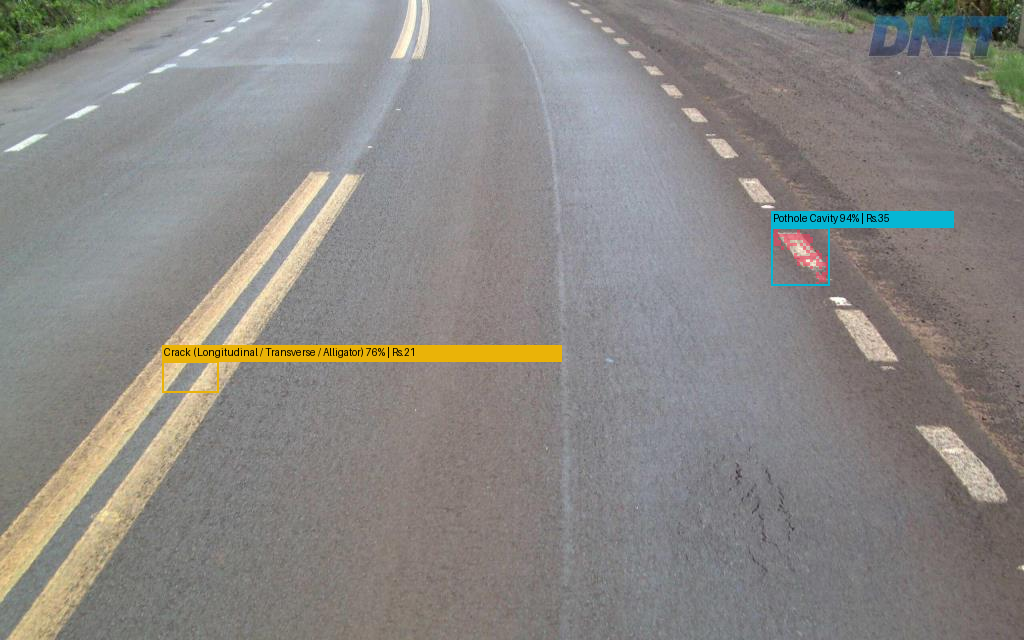
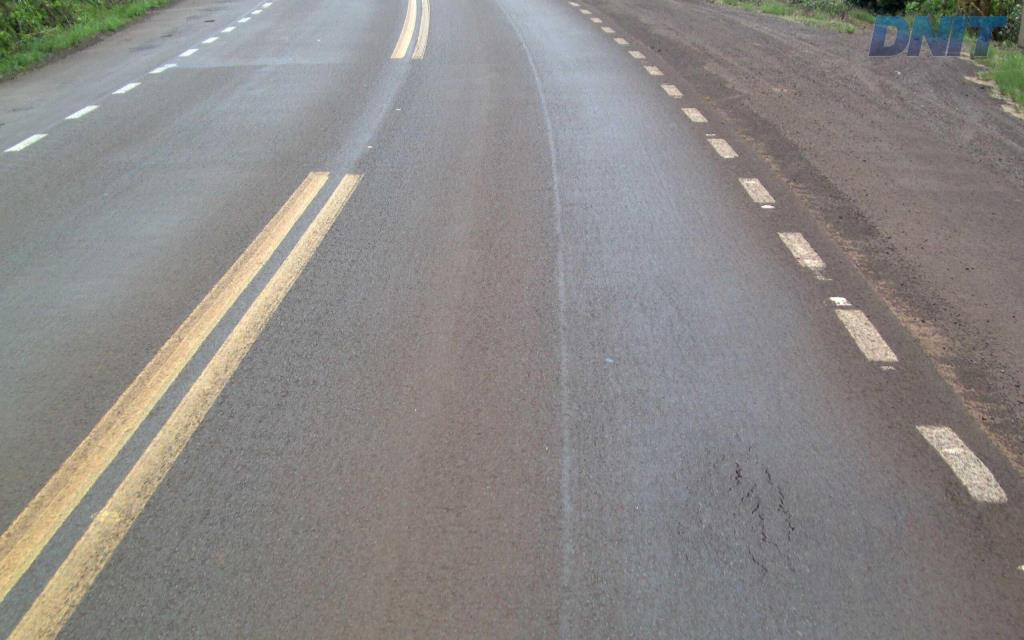
fix(accuracy): eliminate clean road false alarms with segmentation agreement gating and perspective shoulder filter

Changed region(s): [[0.75, 0.3125, 0.9375, 0.4688], [0.1562, 0.5312, 0.5625, 0.625]]

diff --git a/api/vercel_inference.py b/api/vercel_inference.py
@@ -405,6 +405,12 @@ def _finish_segmentation(flat, p0, crack_p, pothole_p, orig_h, orig_w, object_ma
             if (wy + wh * 0.5) < WORK_H * 0.35:
                 continue
 
+            # Roadway perspective envelope: road narrows toward horizon, reject off-road shoulder foliage/dirt
+            norm_y = (wy + wh * 0.5) / float(WORK_H)
+            norm_x = (wx + ww * 0.5) / float(WORK_W)
+            if norm_y < 0.45 and (norm_x < 0.18 or norm_x > 0.70):
+                continue
+
             sub_mask = c_mask[wy:wy + wh, wx:wx + ww]
             if not sub_mask.any():
                 continue
@@ -1294,6 +1300,12 @@ def audit_image_base64(image_b64, corridor_id="NH-44", device_id=None, latitude=
         if frame_cls_raw["class_id"] == 0 and frame_cls_raw["confidence"] >= 0.85 and cls_info["class_id"] not in (1, 2, 3):
             continue
 
+        # Reject roadside shoulder margin noise in upper road zone
+        if (by + bh * 0.5) < int(H * 0.45):
+            centroid_x = (bx + bw * 0.5) / float(W)
+            if centroid_x < 0.18 or centroid_x > 0.70:
+                continue
+
         # Heuristic salient proposal verification (matches pipeline/deep_inference_pipeline.py line 1252):
         if prop["source"] == "salient_cavity_detector":
             crop_is_distress = cls_info["class_id"] in (1, 2, 3) and cls_info["confidence"] >= 0.65
@@ -1303,6 +1315,17 @@ def audit_image_base64(image_b64, corridor_id="NH-44", device_id=None, latitude=
             box_area_share = (bw * bh) / float(W * H)
             if box_area_share < 0.012 and cls_info["confidence"] < 0.72:
                 continue
+            # Cracks cannot be proposed by optical saliency without segmentation agreement
+            if cls_info["class_id"] == 1:
+                crack_mask_px = int((mask_full[by:by + bh, bx:bx + bw] == 1).sum()) if mask_full is not None else 0
+                if crack_mask_px < 15:
+                    continue
+            # Salient potholes require either active cavity mask pixels or whole-frame confirmation
+            elif cls_info["class_id"] == 2:
+                pothole_mask_px = int((mask_full[by:by + bh, bx:bx + bw] == 2).sum()) if mask_full is not None else 0
+                frame_confirms_pothole = (frame_cls_raw["class_id"] == 2 and frame_cls_raw["confidence"] >= 0.60)
+                if pothole_mask_px < 20 and not frame_confirms_pothole:
+                    continue
 
         # Class determination - the main engine's rules (pipeline/deep_inference_pipeline.py,
         # region verification): the crop classifier's verdict stands. "Sound pavement" drops

diff --git a/pipeline/deep_inference_pipeline.py b/pipeline/deep_inference_pipeline.py
@@ -522,7 +522,7 @@ class DeepInferencePipeline:
                 filtered_distress.append(d)
                 continue
             bx, by, bw, bh = b
-            if (bx < 20 or bx + bw > W - 20) and by < int(H * 0.50) and (bw * bh) < int(0.04 * W * H):
+            if (bx < 20 or bx + bw > W - 20) and by < int(H * 0.50) and (bw * bh) < int(0.04 * W * H) and d.get("area_method") != "segmentation_mask":
                 continue
             if (by + bh * 0.5) < int(H * 0.48) and bw > int(W * 0.30):
                 continue
@@ -1320,14 +1320,14 @@ class DeepInferencePipeline:
         Verifies a water-filled or rim-fragmented cavity when no single
         connected component in mask_work cleared the size floor on its own.
         Requires four independent checks to pass simultaneously:
-          1. Region classifier confidence >= 0.60.
+          1. Region classifier confidence >= 0.60 and class is Pothole Cavity (cls_id == 2).
           2. Not painted road markings (_paint_mask covers <= 2% of region).
           3. Segmenter probability map inside [bx, by, bw, bh] has at least
              min_px pixels above the calibrated class threshold and max >= 0.50.
           4. Road ROI crop (y >= ROAD_ROI_TOP_FRACTION * H) independently
              classifies as the same defect class with confidence >= 0.65.
         """
-        if crop_conf < 0.60:
+        if cls_id != 2 or crop_conf < 0.60:
             return None
         paint = getattr(self, "_paint_mask", None)
         if paint is not None:
